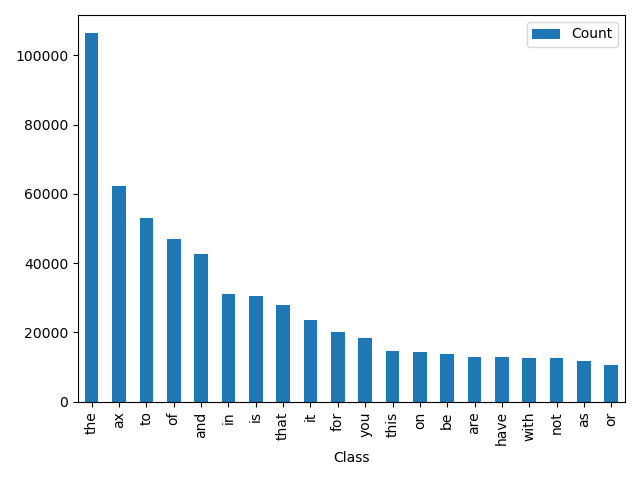
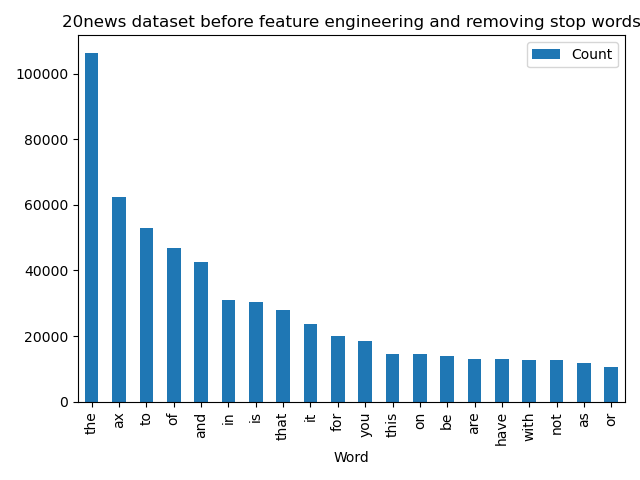
Add new plots

diff --git a/src/dataset_visualizer.py b/src/dataset_visualizer.py
@@ -8,17 +8,20 @@ from collections import Counter
 
 # top 10 words for + vs -
 
+# --------------------------------------------------------------------------
 
 # positive review vs negative review word count
+# --------------------------------------------------------------------------
 
 # top 20 words before and after removing stop words
 def countplot(x, y, title=""):
     x = np.array(x.sum(axis=0)).flatten()
     x, y = zip(*sorted(zip(x, y), reverse=True))
     df = pd.DataFrame(columns=["Class", "Count"])
-    df["Class"] = y
+    df["Word"] = y
     df["Count"] = x
-    df.plot.bar(x="Class", y="Count")
+    df.plot.bar(x="Word", y="Count")
+    plt.title(title)
     plt.show()
 
 
@@ -43,19 +46,48 @@ twenty_words_after, twenty_vect_after = twenty_news_p.custom_vectorizer(
     strip_accents="unicode",
     lowercase=True,
 )
-countplot(imdb_vect_before, imdb_words_before)  # Fig1
-countplot(imdb_vect_after, imdb_words_after)  # Fig2
-countplot(twenty_vect_before, twenty_words_before)  # Fig3
-countplot(twenty_vect_after, twenty_words_after)  # Fig4
 
+countplot(
+    imdb_vect_before,
+    imdb_words_before,
+    "IMDB dataset before feature engineering and removing stop words",
+)  # Fig1
+countplot(
+    imdb_vect_after,
+    imdb_words_after,
+    "IMDB dataset after feature engineering and removing stop words",
+)  # Fig2
+countplot(
+    twenty_vect_before,
+    twenty_words_before,
+    "20news dataset before feature engineering and removing stop words",
+)  # Fig3
+countplot(
+    twenty_vect_after,
+    twenty_words_after,
+    "20news dataset after feature engineering and removing stop words",
+)  # Fig4
+
+imdb_words_after, imdb_vect_after = imdb_p.custom_vectorizer(
+    max_features=20,
+    ngram_range=(3, 3),
+    stop_words=Preprocessing.stop_words,
+    strip_accents="unicode",
+    lowercase=True,
+)
+#  Most frequent trigrams IMDB reviews
+countplot(imdb_vect_after, imdb_words_after, "IMDB dataset trigrams")  # Fig5
+
+# --------------------------------------------------------------------------
 # total count article per newsgroup
-#  preproc = Preprocessing(Dataset.twenty_news)
-#  y = preproc.get_train_test()[1]
-#  counter = Counter(y)
-#
-#  labels, values = zip(*counter.items())
-#  labels, values = zip(*sorted(zip(labels, values)))
-#  indexes = np.arange(len(labels))
-#  plt.bar(indexes, values)
-#  plt.xticks(indexes, labels)
-#  plt.show()  # Fig5
+preproc = Preprocessing(Dataset.twenty_news)
+y = preproc.get_train_test()[1]
+counter = Counter(y)
+
+labels, values = zip(*counter.items())
+labels, values = zip(*sorted(zip(labels, values)))
+indexes = np.arange(len(labels))
+plt.bar(indexes, values)
+plt.title("number of articles per newsgroup")
+plt.xticks(indexes, labels)
+plt.show()  # Fig6
